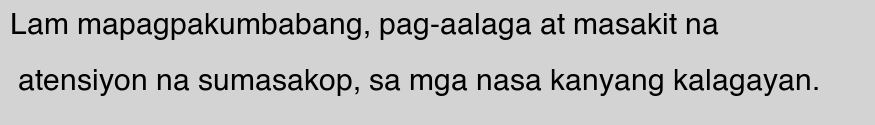
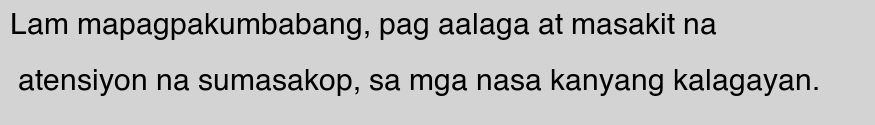
agregar 10 nuevas oraciones y crear las imagenes

Changed region(s): [[0.4937, 0.096, 0.8331, 0.336]]

diff --git a/app_1_transcription/models.py b/app_1_transcription/models.py
@@ -15,17 +15,30 @@ Your app description
 class Constants(BaseConstants):
     name_in_url = 'app_1_transcription'
     players_per_group = None
-    text_list = [ "lah isang anak na lalaki, sa pagkamatay ng isang mapagpasunod at kagalang-galang ama, ay maaaring ma.",
-    "san kanyang, kalungkutan ay una sa lahat, natagpuaan sa isang uri, ng pakikiramay sa kanyang nakaraa.",
-    "yon taong mayaman, ay nagmula sa kanyang kayamanan, rsapagkat naramdaman niya na natural na nakukuha.",
-    "lam mapagpakumbabang, pag-aalaga at masakit na atensiyon na sumasakop, sa mga nasa kanyang kalagayan.",
-    "aks niiwas nila, ang kanilang mga mata sa kanya, o kung ang matinding kalungkutan ng kanyang pagkaba.",
-    "ipi pinipilit silang tumingin sa kanya, ito ay lamang na tumiwalag kaya hindi sumasangayon, sa isang.",
-    "pan kanyang mga aksyon, ay mga bagay ng pangangalaga sa publiko magkalas ng isang salita, mahirap ma.",
-    "pup sa isang malaking, pagpupulong siya ang taong pinagtutuunan ng lahat ng kanilang mga matta, nasa.",
-    "ang kanilang mga, hilig ay tila naghihintay na maghintay, upang matanggap ang kilusan at direkmksyon.",
-    "agk mayroon siya, sa bawat sandali, isang pagkakataon ng mga kagiliw-giliw na sangkatauhan, at sa pa.",
-    "kan yang sarili, ang object ng pagmamasid at kapwalpakiramdam ng bawat katawan, tungkol sa kanya wal."]
+    text_list = [ "Lah isang anak na lalaki, sa pagkamatay ng isang mapagpasunod at kagalang-galang ama, ay maaaring ma.",
+    "San kanyang, kalungkutan ay una sa lahat, natagpuaan sa isang uri, ng pakikiramay sa kanyang nakaraa.",
+    "Yon taong mayaman, ay nagmula sa kanyang kayamanan, rsapagkat naramdaman niya na natural na nakukuha.",
+    "Lam mapagpakumbabang, pag aalaga at masakit na atensiyon na sumasakop, sa mga nasa kanyang kalagayan.",
+    "Aks niiwas nila, ang kanilang mga mata sa kanya, o kung ang matinding kalungkutan ng kanyang pagkaba.",
+    "Ipi pinipilit silang tumingin sa kanya, ito ay lamang na tumiwalag kaya hindi sumasangayon, sa isang.",
+    "Pan kanyang mga aksyon, ay mga bagay ng pangangalaga sa publiko magkalas ng isang salita, mahirap ma.",
+    "Pup sa isang malaking, pagpupulong siya ang taong pinagtutuunan ng lahat ng kanilang mga matta, nasa.",
+    "Ang kanilang mga, hilig ay tila naghihintay na maghintay, upang matanggap ang kilusan at direkmksyon.",
+    "Agk mayroon siya, sa bawat sandali, isang pagkakataon ng mga kagiliw-giliw na sangkatauhan, at sa pa.",
+    "Kan yang sarili, ang object ng pagmamasid at kapwalpakiramdam ng bawat katawan, tungkol sa kanya wal.",
+                  #
+    "Ang alituntunin na kung saan tayo ay natural na sumasang, ayon sumasang, ayono sa ating sariling pag.",
+    "Ay tila magkakapareho, ng pareho a pamamagitan ng kung ipinatupad natin, a mga katulad na paghuhukom.",
+    "Tungkol sa pag uugali ng ibang tao, Pinahihintulutan man, natin o hindi ayon ang pag uugali ng ibang.",
+    "Tao sa naramdaman natin na, kung natin sa ating sarili ang kanyang kaso, maaari natina o hindi lubos.",
+    "Na sa mga damdamino at motibo na itinuro nito at, sa parehong paraano, sinasang ayunan natin o hindi.",
+    "Sumasang ayon sa aming sariling, ayon sa nadarama namin, kapag inilalagay natino ang ating sarili sa.",
+    "Sitwasyon tao, at tiningnan ito, tulad ng mga mata mula sa kanyang istasyon maaari nating ang maging.",
+    "O hindi lubos na makapasok at, makisimpatiya mga damdamin at motibo, na nakakaimpluwensya dito amino.",
+    "Ang aming sariling mga damdamin at motibo, hindi tayo maaaring gumawa, ng anumang paghuhusga tungkol.",
+    "Aalisin ating sarili, tulad nito, mula sa aming sariling likas na istasyon at pagsisikap na tingnano."
+    ]
+
     num_rounds = len(text_list)
     treatments = [0, 1]
     shock = 0.2

diff --git a/to_image.py b/to_image.py
@@ -4,14 +4,24 @@ from PIL import Image, ImageDraw, ImageFont
 text_list = [ "Lah isang anak na lalaki, sa pagkamatay ng isang \n\nmapagpasunod at kagalang-galang ama, ay maaaring ma.",
     "San kanyang, kalungkutan ay una sa lahat, \n\n natagpuaan sa isang uri, ng pakikiramay sa kanyang nakaraa.",
     "Yon taong mayaman, ay nagmula sa kanyang \n\nkayamanan, rsapagkat naramdaman niya na natural na nakukuha.",
-    "Lam mapagpakumbabang, pag-aalaga at masakit na\n\n atensiyon na sumasakop, sa mga nasa kanyang kalagayan.",
+    "Lam mapagpakumbabang, pag aalaga at masakit na\n\n atensiyon na sumasakop, sa mga nasa kanyang kalagayan.",
     "Aks niiwas nila, ang kanilang mga mata sa kanya,\n\n o kung ang matinding kalungkutan ng kanyang pagkaba.",
     "Ipi pinipilit silang tumingin sa kanya, ito ay\n\n lamang na tumiwalag kaya hindi sumasangayon, sa isang.",
     "Pan kanyang mga aksyon, ay mga bagay ng pangangalaga\n\n sa publiko magkalas ng isang salita, mahirap ma.",
     "Pup sa isang malaking, pagpupulong siya ang taong\n\n pinagtutuunan ng lahat ng kanilang mga matta, nasa.",
     "Ang kanilang mga, hilig ay tila naghihintay na maghintay,\n\n upang matanggap ang kilusan at direkmksyon.",
     "Agk mayroon siya, sa bawat sandali, isang pagkakataon\n\n ng mga kagiliw-giliw na sangkatauhan, at sa pa.",
-    "Kan yang sarili, ang object ng pagmamasid at kapwalpakiramdam\n\n ng bawat katawan, tungkol sa kanya wal."]
+    "Kan yang sarili, ang object ng pagmamasid at kapwalpakiramdam\n\n ng bawat katawan, tungkol sa kanya wal.",
+    "Ang alituntunin na kung saan tayo ay natural na\n\n sumasang, ayon sumasang, ayono sa ating sariling pag.",
+    "Ay tila magkakapareho, ng pareho a pamamagitan\n\n ng kung ipinatupad natin, a mga katulad na paghuhukom.",
+    "Tungkol sa pag uugali ng ibang tao, Pinahihintulutan\n\n man, natin o hindi ayon ang pag uugali ng ibang.",
+    "Tao sa naramdaman natin na, kung natin sa ating\n\n sarili ang kanyang kaso, maaari natina o hindi lubos.",
+    "Na sa mga damdamino at motibo na itinuro nito at,\n\n sa parehong paraano, sinasang ayunan natin o hindi.",
+    "Sumasang ayon sa aming sariling, ayon sa nadarama\n\n namin, kapag inilalagay natino ang ating sarili sa.",
+    "Sitwasyon tao, at tiningnan ito, tulad ng mga mata\n\n mula sa kanyang istasyon maaari nating ang maging.",
+    "O hindi lubos na makapasok at, makisimpatiya mga\n\n damdamin at motibo, na nakakaimpluwensya dito amino.",
+    "Ang aming sariling mga damdamin at motibo, hindi\n\n tayo maaaring gumawa, ng anumang paghuhusga tungkol.",
+    "Aalisin ating sarili, tulad nito, mula sa aming\n\n sariling likas na istasyon at pagsisikap na tingnano."]
 
 for text in range(len(text_list)):
     #https://code-maven.com/create-images-with-python-pil-pillow
